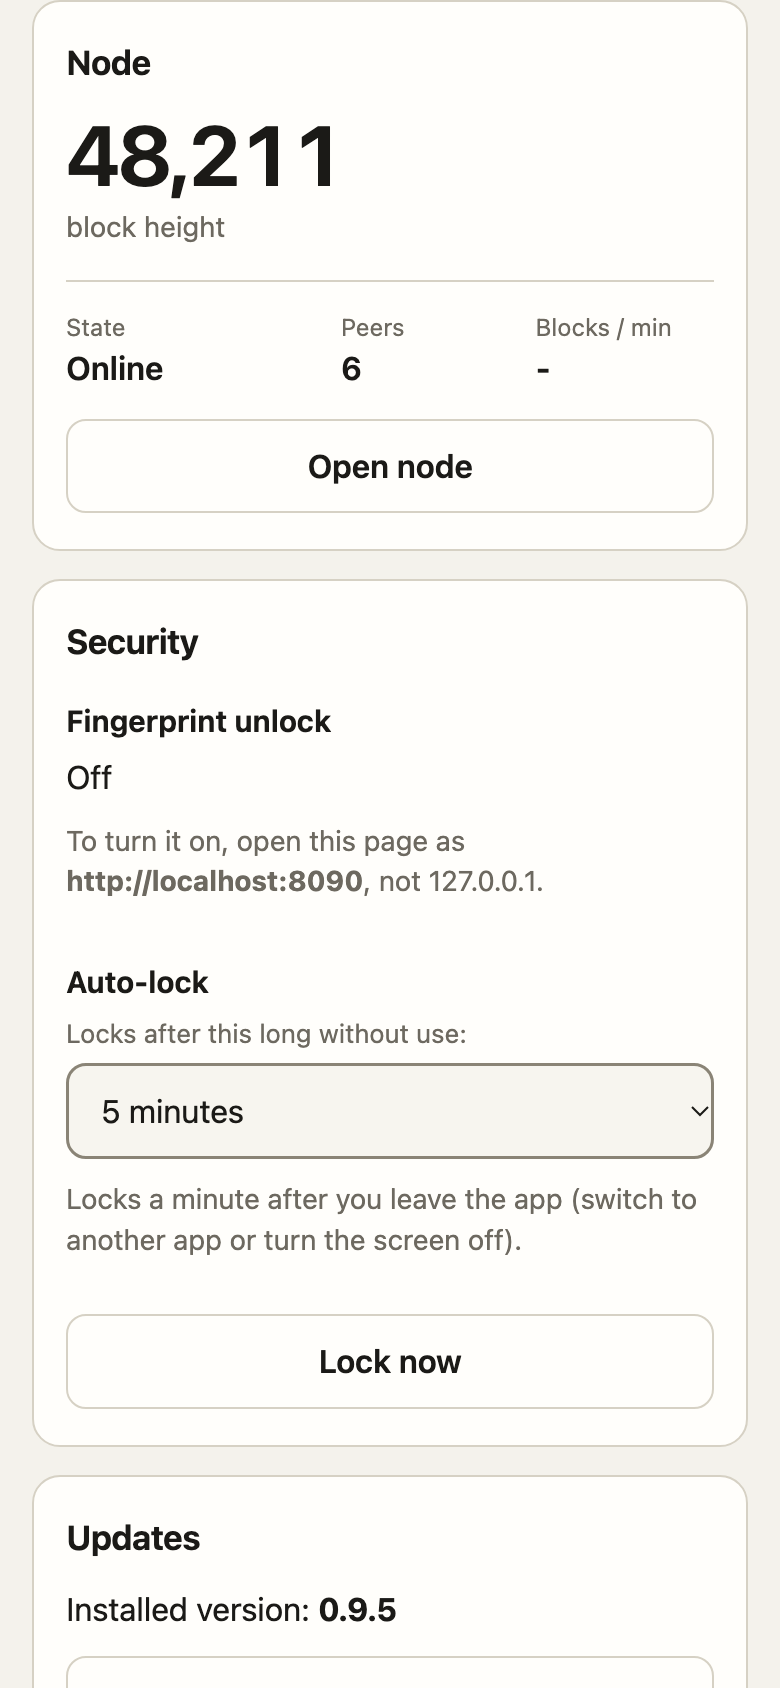
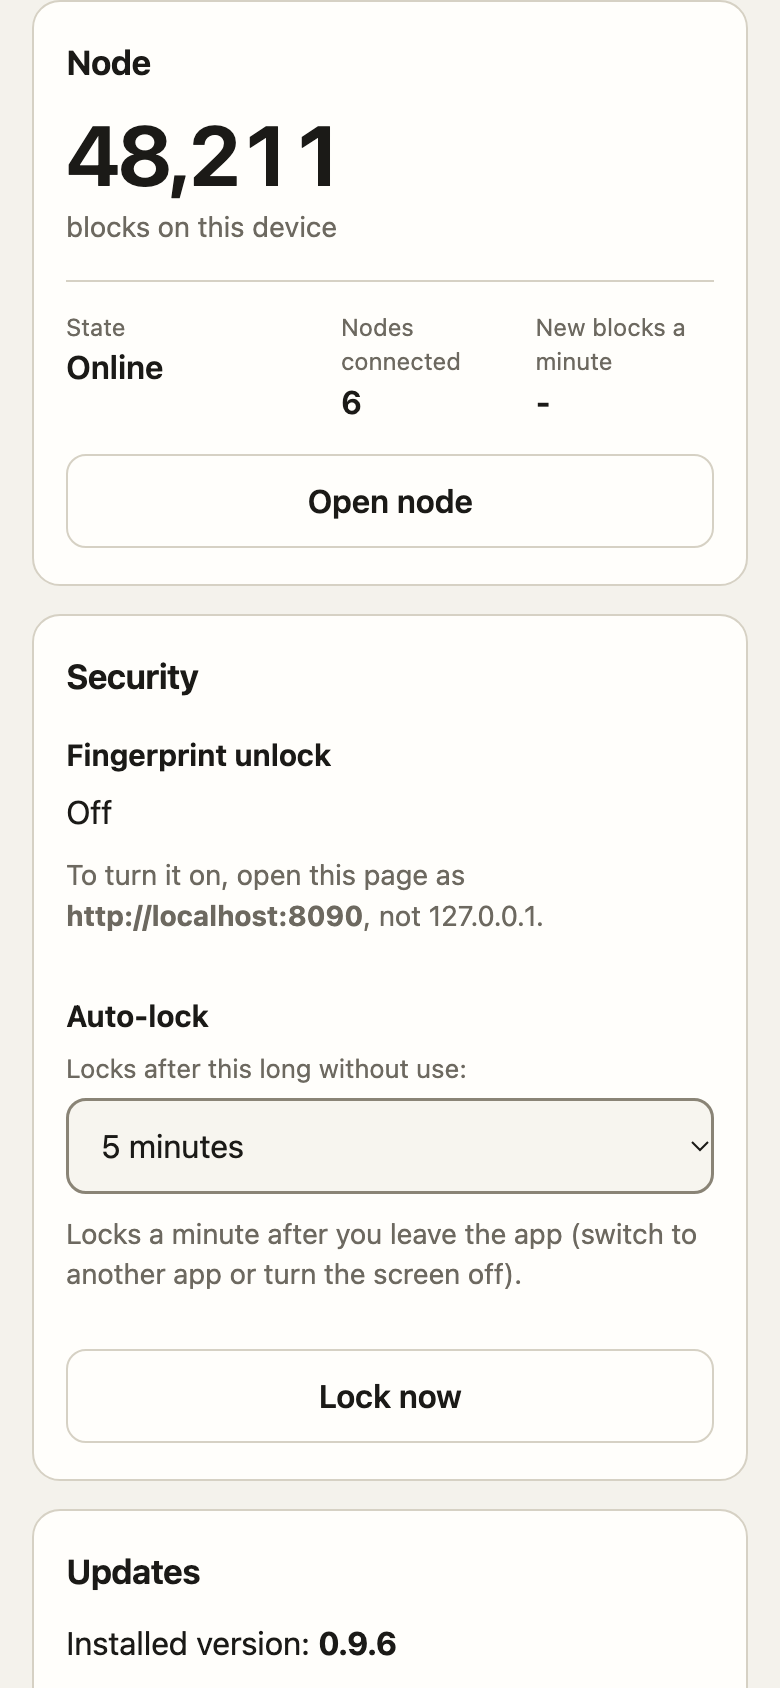
0.9.6: plain node state, accurate screen-reader wording, screenshots
- Settings > Node shows "Catching up" for the node's "Bootstrapping" state.
- The keypad comment, test name and update notes say what the change does:
  after each key, screen readers are told how many digits are in. (The keys
  keep their names, which a screen reader speaks on focus.)
- UI test: receipts left from the balance-size checks are taken and closed
  before the eye checks; closing the pop-up scrolls back to the top so the
  next screenshots aren't taken half-way down Activity.
- Screenshots regenerated for the changed screens: wallet-receive,
  settings-node, settings, settings-android, my-messaging-address.

diff --git a/app/index.html b/app/index.html
@@ -484,7 +484,7 @@ function lockUi() {
   const fpKey = $("k-fp"); if (fpKey) fpKey.style.visibility = !fpUsable() || fpUp ? "hidden" : "";    // keeps its cell
   const d = $("pin-dots"); d.replaceChildren(...Array.from(pinBuf, () => document.createElement("span")));
   d.classList.toggle("empty", !pinBuf.length);
-  // screen readers hear only how many digits are in, never which (the dots themselves are hidden from them)
+  // after each key, screen readers are told how many digits are in (the dots themselves are hidden from them)
   $("pin-count").textContent = pinBuf.length ? pinBuf.length + " digit" + (pinBuf.length === 1 ? "" : "s") + " entered" : "No digits entered";
   $("b-pin").disabled = pinBusy || !pinOk(pinBuf);
   for (const b of $("keypad").querySelectorAll("button")) b.disabled = pinBusy;
@@ -644,7 +644,7 @@ async function tickStatus() {
     $("syncline").textContent = sy.line; $("syncline").className = "syncline " + sy.cls;
     $("height").textContent = Number(n.height).toLocaleString("en-US");
     $("nodeline").textContent = "blocks on this device";
-    $("state").textContent = n.state || "-";
+    $("state").textContent = n.state === "Bootstrapping" ? "Catching up" : n.state || "-";
     $("peers").textContent = n.peers == null ? "-" : n.peers;
     const now = Date.now();
     if (prev && now - prev.t >= 20000) { rateNow = Math.max(0, (n.height - prev.h) / ((now - prev.t) / 60000)); $("rate").textContent = Math.round(rateNow).toLocaleString("en-US"); prev = { h: n.height, t: now }; }

diff --git a/README.md b/README.md
@@ -96,7 +96,7 @@ Notes:
 
 A small Python program (`app/server.py`, standard library only) and one page (`app/index.html`), served on port 8090 of the device itself. Version 0.7.4 at the time of writing.
 
-- **Node status:** in plain words: how many blocks are on this device (and where the network is while it catches up), the state (for example Online), how many nodes it is connected to and how many new blocks arrive a minute.
+- **Node status:** in plain words: how many blocks are on this device (and where the network is while it catches up), the state (Online, or Catching up), how many nodes it is connected to and how many new blocks arrive a minute.
 - **PIN.** You choose a PIN (6 to 12 digits) on first use; it can't be recovered. Five wrong PINs pause unlocking for 5 minutes.
 - **Auto-lock.** The wallet locks after 5 minutes without you using it (1, 5 or 15 in Settings), and one minute after you leave the page (switch to another app or turn the screen off), or when you tap **Lock wallet**. Only what you do counts as use: the page's own background refreshes don't keep it open.
 - **Fingerprint unlock**, using a passkey (a login key the phone keeps and only releases after your fingerprint or screen lock). It only works when the page is opened as `http://localhost:8090`, and you need the PIN to turn it on. The PIN keeps working as a fallback.

diff --git a/docs/updating.md b/docs/updating.md
@@ -45,9 +45,9 @@ this: it keeps running and is never restarted by an update.
 - 0.9.6: Messages settings no longer read as if your LNS name can't take coins: the messaging address is
   for messages, coins go to your wallet address (Wallet, then Receive), and your LNS name can take both
   once it is set up for each. With the balance hidden, the Received pop-up and Send's "not enough" error
-  no longer show amounts. On the keypad, Enter on a key reached with Tab presses that key, and screen
-  readers hear how many digits are in, not which. Settings > Node says it in plain words: blocks on this
-  device, nodes connected, new blocks a minute, and where the network is.
+  no longer show amounts. On the keypad, Enter on a key reached with Tab presses that key, and after each
+  key screen readers are told how many digits are in. Settings > Node says it in plain words: blocks on
+  this device, nodes connected, new blocks a minute, and where the network is.
 
 ## Going back to the previous version by hand
 
